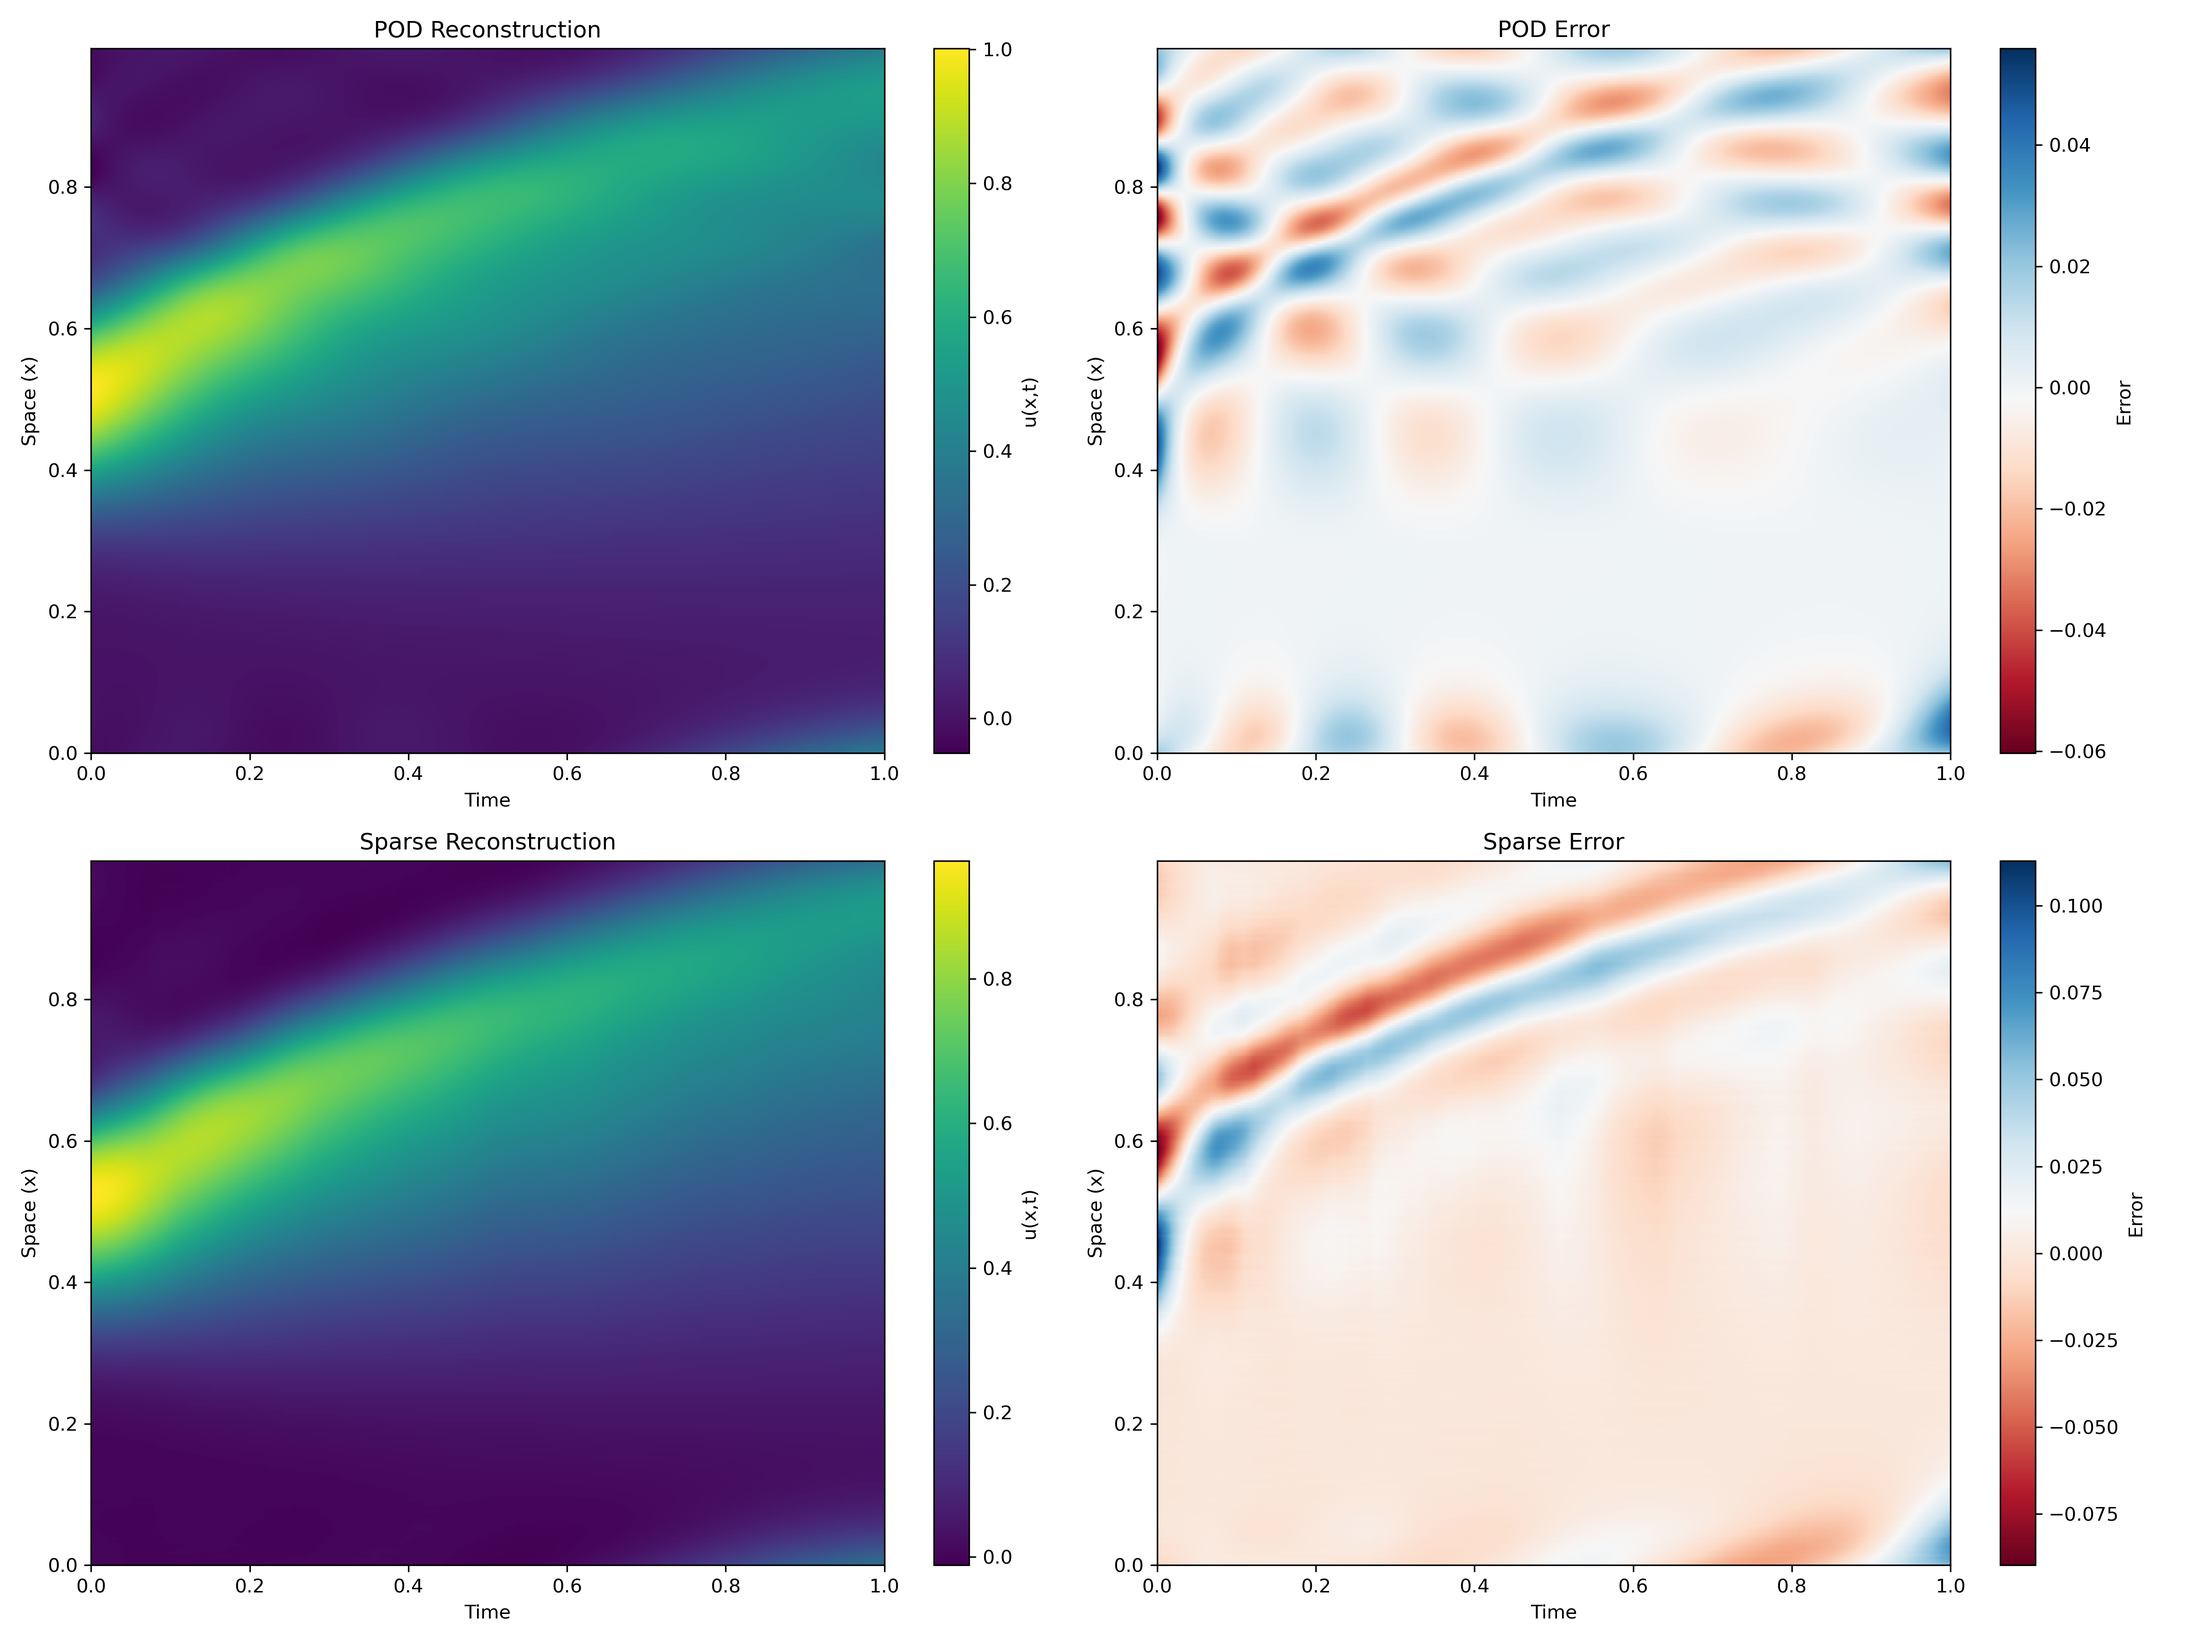
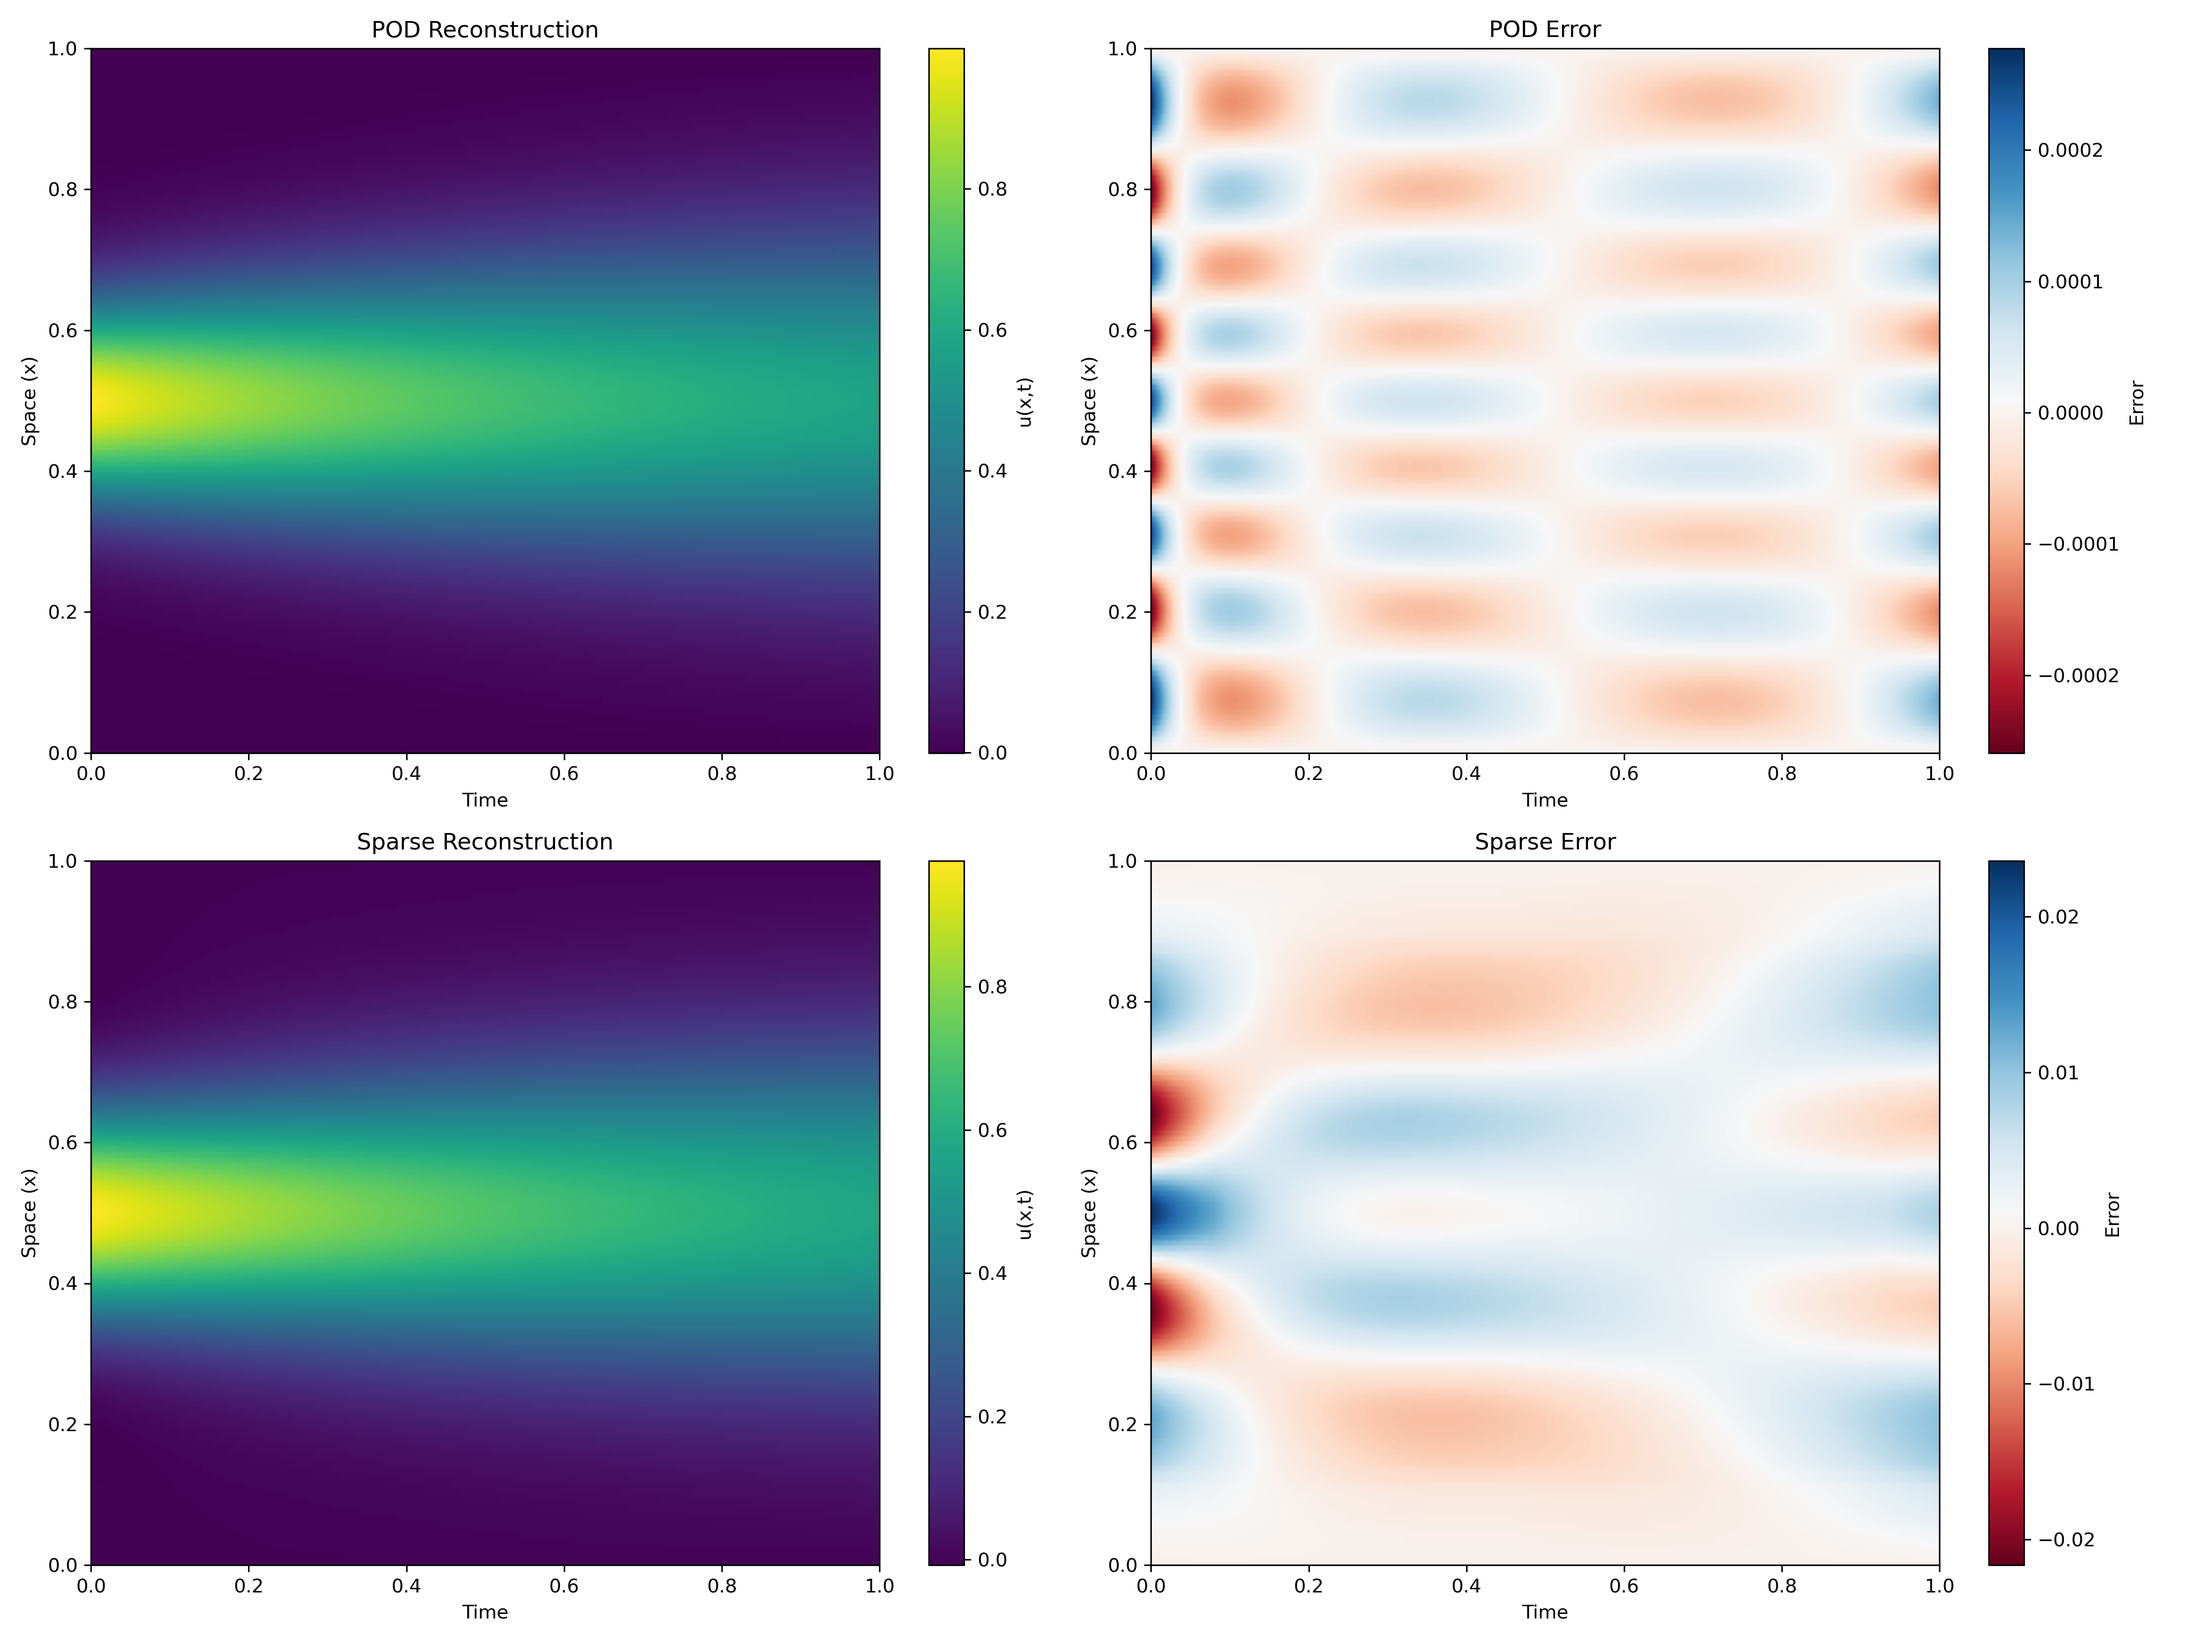
rerun heat example to overwrite plots

diff --git a/experiments/heat1d.py b/experiments/heat1d.py
@@ -68,7 +68,7 @@ if __name__ == "__main__":
         X_np            = X_heat,
         s               = s_h,
         hidden_units    = hidden_units_heat,
-        M               = 1.0,
+        M               = 10.0,
         reg_path        = reg_path,
         lr              = 1e-3,
         batch_size      = 64,
